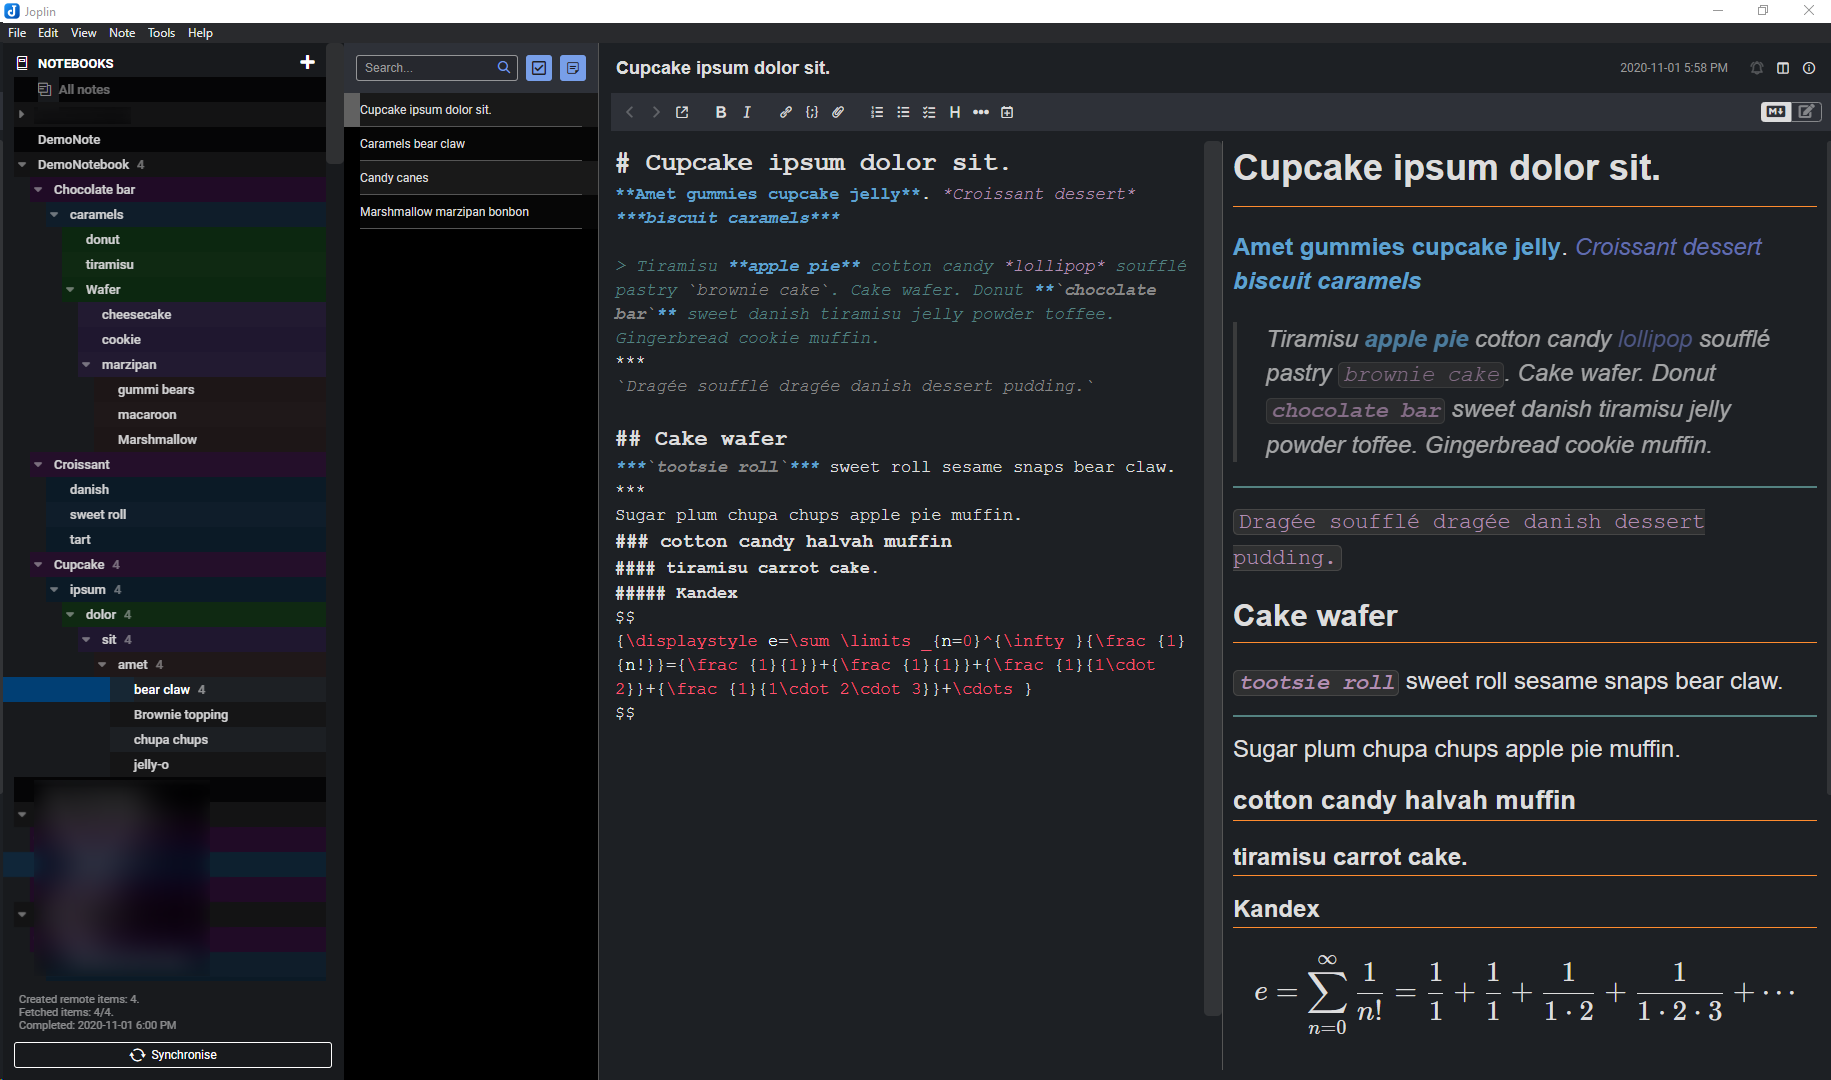
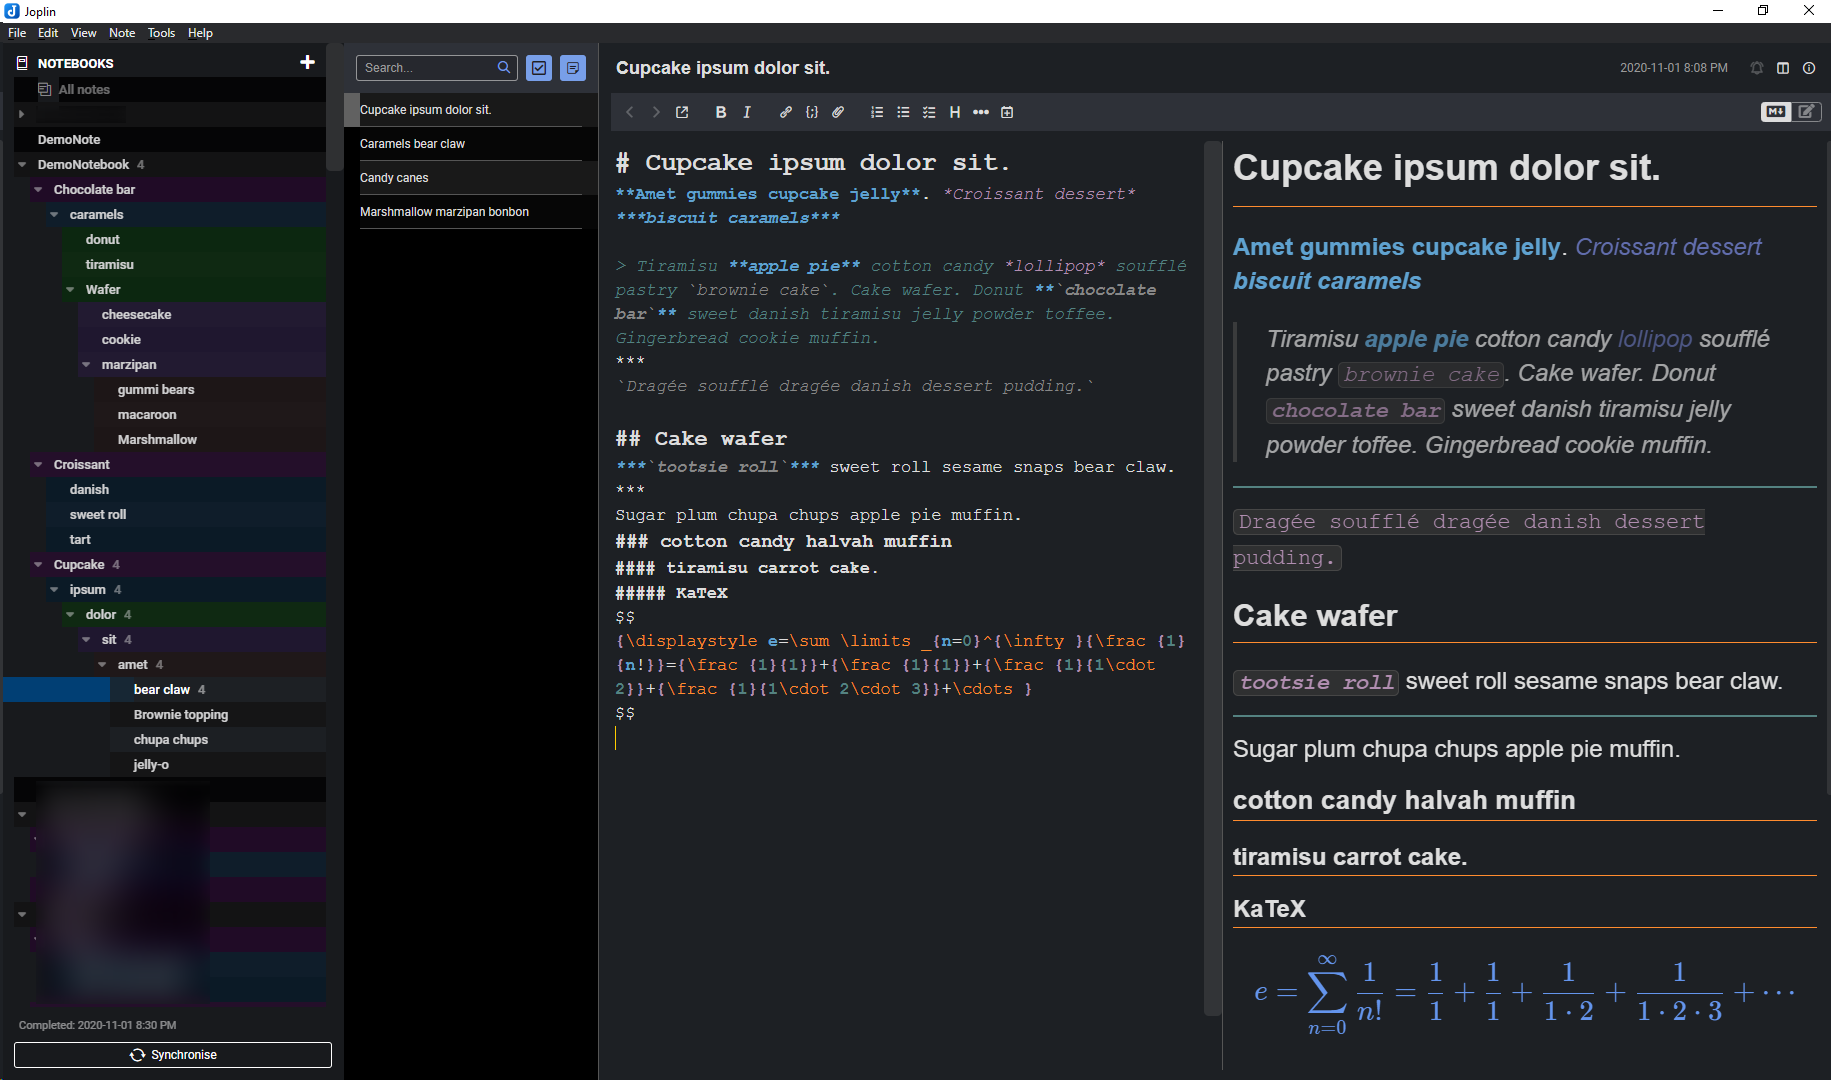
Added KaTeX colors.

diff --git a/userchrome.css b/userchrome.css
@@ -41,6 +41,37 @@ div.CodeMirror.CodeMirror-wrap {
 	font-style: italic !important;
 }
 
+
+
+
+
+/* colorize katex tags */
+.cm-tag {
+	color: #ff8c2f !important;
+}
+
+
+/* colorize katex brackets */
+.cm-bracket {
+	font-weight: bold !important;
+	color: #B18EB1 !important;
+}
+
+/* colorize katex variables */
+.cm-variable-2 {
+	font-weight: bold !important;
+	color: #5fa2d0 !important;
+}
+
+/* colorize katex numbers */
+.cm-number {
+	font-weight: bold !important;
+	color: #548281 !important;
+}
+
+
+
+
 /* widen scrollbars */
 ::-webkit-scrollbar {
 	width: 18px;
@@ -73,15 +104,16 @@ div.CodeMirror.CodeMirror-wrap {
 
 /*  Alternating Notebook Colors */
 
-/*  Define the notebook background color for all the ODD background rows  */
+/*  Define the default/passthrough notebook background color for all the ODD background rows  */
 .list-item-container:nth-child(odd) a{ 
   background-color: #1D2024;
 }
 
-/*  Define the notebook background color for all the EVEN background rows  */
+/*  Define the default/passthrough notebook background color for all the EVEN background rows  */
 .list-item-container:nth-child(even) a{
 	background-color: #141414;
 }
+
 
 /* 0 - base black / dark grey */
 .list-item-depth-0:nth-child(odd) a{ 

diff --git a/userstyle.css b/userstyle.css
@@ -38,3 +38,7 @@ blockquote {
 {
 	color: #B18EB1 !important;
 }
+
+.katex * {
+    color: cornflowerblue;
+}

diff --git a/README.md b/README.md
@@ -34,6 +34,8 @@ Increases font size and weight of all text for readability, and colorizes bold a
 
 Italicizes blockquotes, and adds color to inline code.
 
+Colorized KaTeX output.
+
 ![userstyle-color-pallette](img/joplin-style-dark-colors_01-userstyle.png)
 
 ## Indented custom global stylesheet
@@ -52,6 +54,8 @@ Direct child specificity used to avoid cascading to nested divs, like styling ba
 Wider scrollbars for lists and editor.
 
 Colorized bold and italic styles, heavier bold weight, italicized blockqoute (text preceded by `>` on a new line).
+
+Colorized KaTeX numbers, brackets, vars, and tags.
 
 ![userchrome-color-pallette-styles](img/joplin-style-dark-colors_02-userchrome.png)
 ![userchrome-color-pallette-notebooks](img/joplin-style-dark-colors_03-userchrome.png)
